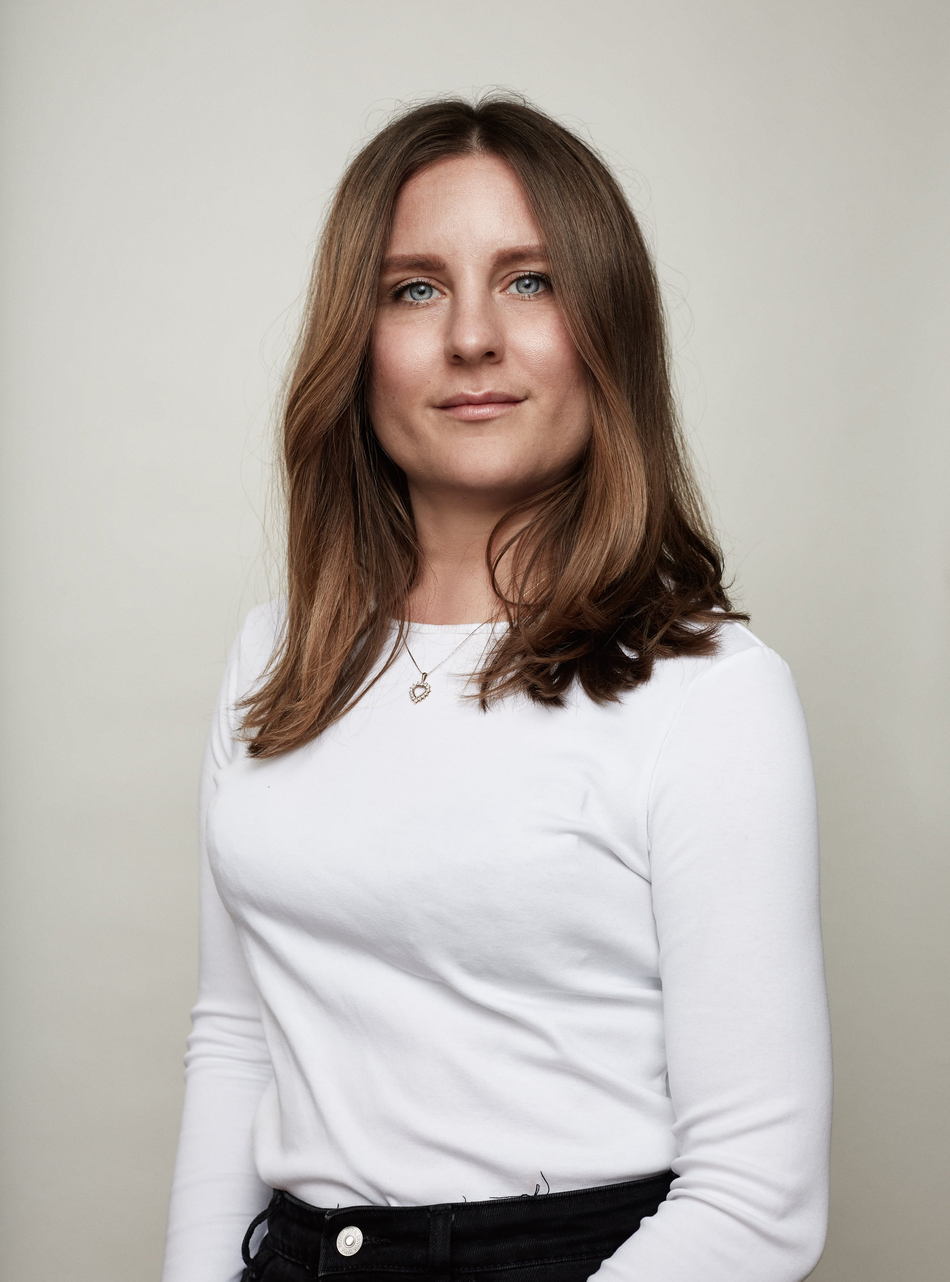
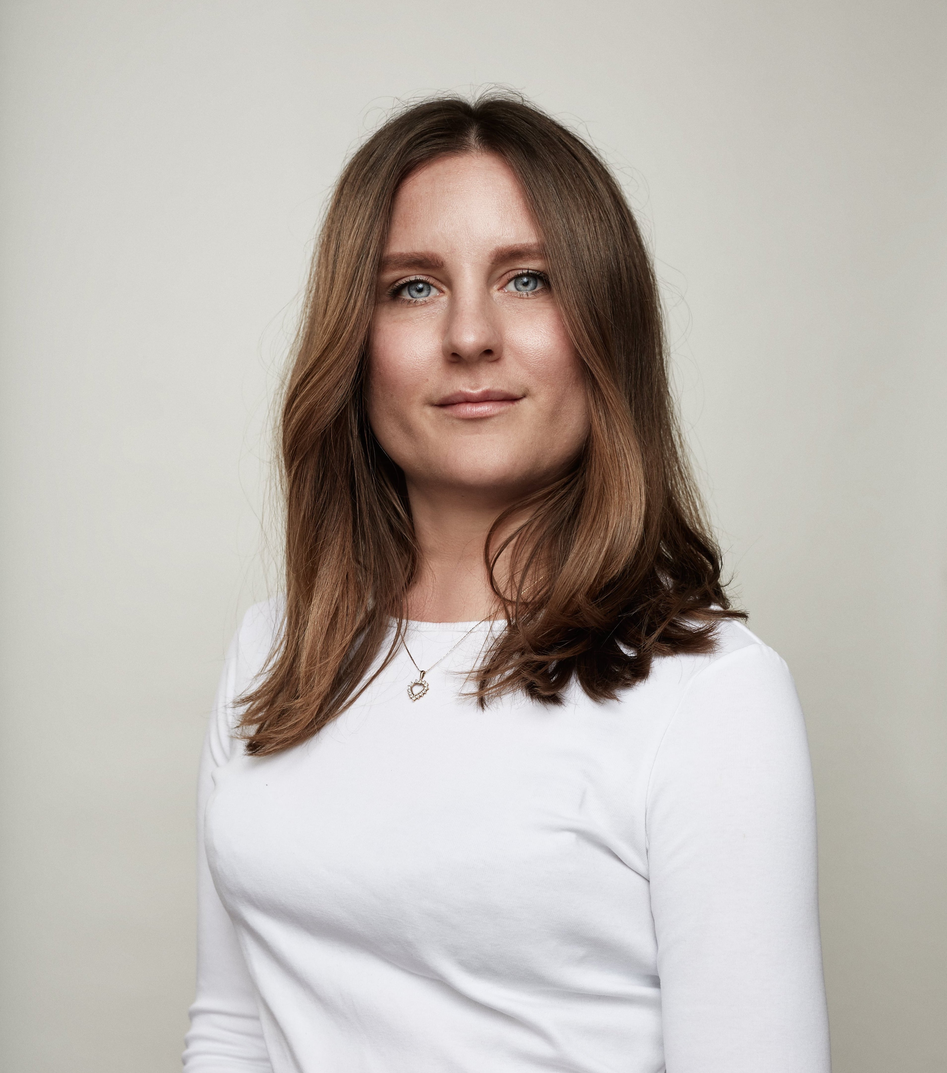
fix styles on mobile and tablet

diff --git a/src/pages/about.js b/src/pages/about.js
@@ -13,6 +13,7 @@ const IndexPage = (props) => (
         <section className="about-page">
         <div className="image-wrap">
             <Img fluid={props.data.imageOne.childImageSharp.fluid} alt="image of yayoi kusama infinity room" />
+            <Img fluid={props.data.imageThree.childImageSharp.fluid} alt="image of yayoi kusama infinity room" />
         </div>
         <div className="panel">
           <div className="category">
@@ -49,7 +50,7 @@ const IndexPage = (props) => (
                 <p>I love what I do because I get to learn about people and their behaviours everyday, I get to apply that knowledge to create beautiful and well-informed products people enjoy using. I follow emotional design principles to put users at ease and understand their needs. My core values are “Love More” and “Lead with Simplicity”, these values provide a motivational foundation for all the work that I produce.</p>
                 <p>I have been practicing as a UX designer for three years, but before that I was working in the hair and beauty industry as a business manager to various studios across the city. During my time there a huge part of my role was to curate an online and social media presence for the studios I worked with. I grew a huge passion for understanding the customer needs and creating well informed marketing campaigns. As much as I loved it, I was ready to switch careers and it was clear that my next move would be in tech.</p>
                 <p>Originally self-taught I was eager to gain the neccessary skills to get started in tech. I started by completing Hacker You’s full time front-end bootcamp and then their UX course. I also read books, articles and listen to podcasts (Check out my list of reco's) but my most reliable tool for growth has always been working with other amazing designers – I learn so much by working with others and seeing how they approach design challenges.</p> 
-                <p>Right now I'm learning new research &amp; facilitation techniques as a Side x Side mentee. All these experiences have only propelled my love for UX and seeing how people interact with products, I can't wait to continue to learn and grow from my projects and peers.</p>
+                <p>Right now I'm learning new research &amp; facilitation techniques as a Side x Side mentee. All these experiences have only propelled my love for UX, I can't wait to continue to learn and grow from my projects and peers.</p>
                 <p>I’m an all around chill girl powered by the soft tones of Solange and Blood Orange. I love surrounding myself with friends and family, going to art galleries, and taking my dog Marvin Gaye for walks at Trinity Bellwoods. On the weekends I struggle to keep my plants alive and frequent local coffee shops.</p>
                 <p>Feel free to contact me if you have an idea you want to explore. I love hearing from new people and exploring new ideas.</p>
             </div>
@@ -128,7 +129,7 @@ export default IndexPage
 
 export const pageQuery = graphql`
   query {
-    imageOne: file(relativePath: { eq: "about.png" }) {
+    imageOne: file(relativePath: { eq: "about/about.png" }) {
       childImageSharp {
         fluid(maxWidth: 1000) {
           ...GatsbyImageSharpFluid_noBase64
@@ -142,26 +143,12 @@ export const pageQuery = graphql`
         }
       }
     }
-    imageEight: file(relativePath: { eq: "home/hex-shape.png" }) {
-        childImageSharp {
-          fluid(maxWidth: 1000) {
-            ...GatsbyImageSharpFluid_noBase64
-          }
+    imageThree: file(relativePath: { eq: "about/about-mobile.png" }) {
+      childImageSharp {
+        fluid(maxWidth: 1000) {
+          ...GatsbyImageSharpFluid_noBase64
         }
       }
-      imageNine: file(relativePath: { eq: "home/dode-shape.png" }) {
-        childImageSharp {
-          fluid(maxWidth: 1000) {
-            ...GatsbyImageSharpFluid_noBase64
-          }
-        }
-      }
-      imageTen: file(relativePath: { eq: "home/octo-shape.png" }) {
-        childImageSharp {
-          fluid(maxWidth: 1000) {
-            ...GatsbyImageSharpFluid_noBase64
-          }
-        }
-      }
+    }
   }
 `

diff --git a/src/styles/_home.scss b/src/styles/_home.scss
@@ -23,10 +23,16 @@
 
     @media (min-width: 769px) and (max-width: 1125px)  {
       margin-left: 60px;
+      // margin: 0;
     }
 
-    @media (max-width: 768px)  {
-      width: 80%;
+    @media (min-width:501px) and (max-width: 768px)  {
+      width: 85%;
+      margin: 0 auto;
+    }
+
+    @media (max-width: 500px)  {
+      width: 90%;
       margin: 0 auto;
     }
 
@@ -61,50 +67,47 @@
 
     @media (max-width: 768px)  {
       display: none;
-      // width: 50%;
-      // min-height: 200px;
-      // overflow: hidden;
-      // margin-bottom: 20px;
     }
-  }
 
-  .image-wrap {
-    width: 100%;
-    height: auto;
-    position: relative;
-
-    .image {
+    .image-wrap {
       width: 100%;
       height: auto;
-      position: absolute;
-      top: 0;
-      left: 0;
-      opacity: 1;
-
-      @media (min-width: 767px) and (max-width: 1125px)  {
-        top: 20px;
+      position: relative;
+  
+      .image {
+        width: 100%;
+        height: auto;
+        position: absolute;
+        top: 0;
+        left: 0;
+        opacity: 1;
+  
+        @media (min-width: 767px) and (max-width: 1125px)  {
+          top: 20px;
+        }
+  
+        // @media (max-width: 768px)  {
+        //   top: 5px;
+        // }
       }
-
-      // @media (max-width: 768px)  {
-      //   top: 5px;
-      // }
-    }
-
-    .image-one {
-      top: 5px;
-      left: 5px;
-      opacity: 1;
-
-      @media (min-width: 767px) and (max-width: 1125px)  {
-        top: 25px;
+  
+      .image-one {
+        top: 5px;
+        left: 5px;
+        opacity: 1;
+  
+        @media (min-width: 767px) and (max-width: 1125px)  {
+          top: 25px;
+        }
+  
+        // @media (max-width: 768px)  {
+        //   top: 0;
+        //   left: 5px;
+        // }
       }
-
-      // @media (max-width: 768px)  {
-      //   top: 0;
-      //   left: 5px;
-      // }
     }
   }
+
 }
 
 .portfolio {
@@ -123,7 +126,6 @@
       margin: 40px auto;
       display: flex;
       flex-direction: row;
-
     }
 
     @media (max-width: 700px) {
@@ -146,7 +148,7 @@
 
       @media (max-width: 700px) {
         position: static;
-        width: 90%;
+        width: 100%;
         margin: 0 auto;
       }
 
@@ -168,17 +170,17 @@
         position: static;
         background: transparent;
         opacity: 1;
-        width: 44%;
+        width: 49%;
         color: $black;
-        padding: 20px;
+        padding: 0 20px;
       }
-
+      
       @media (max-width: 700px) {
         position: static;
         background: transparent;
         opacity: 1;
         color: $black;
-        padding: 30px;
+        padding: 20px 0;
       }
 
       .category {
@@ -263,7 +265,9 @@
   }
 
   .project-wrap:first-of-type {
-    margin-top: 70px;
+    @media (max-width: 768px) {
+      margin-top: 0;
+    }
   }
   .project-wrap:last-of-type {
     margin-bottom: 70px;

diff --git a/src/styles/_about.scss b/src/styles/_about.scss
@@ -10,9 +10,21 @@
         margin: 0 auto;
         margin-bottom: 40px;
 
+        .gatsby-image-wrapper:nth-child(2) {
+            display: none;
+        }
+
         @media (max-width: 768px)  {
             order: 1;
             margin-bottom: 0;
+
+            .gatsby-image-wrapper:nth-child(1) {
+                display: none;
+            }
+
+            .gatsby-image-wrapper:nth-child(2) {
+                display: block;
+            }
         }
     }
     .panel {
@@ -87,6 +99,12 @@
         
         h2 {
             width: 100%;
+
+            @media (max-width: 550px)  {
+                br {
+                    display: none;
+                }
+            }
         }
         
         .text {
